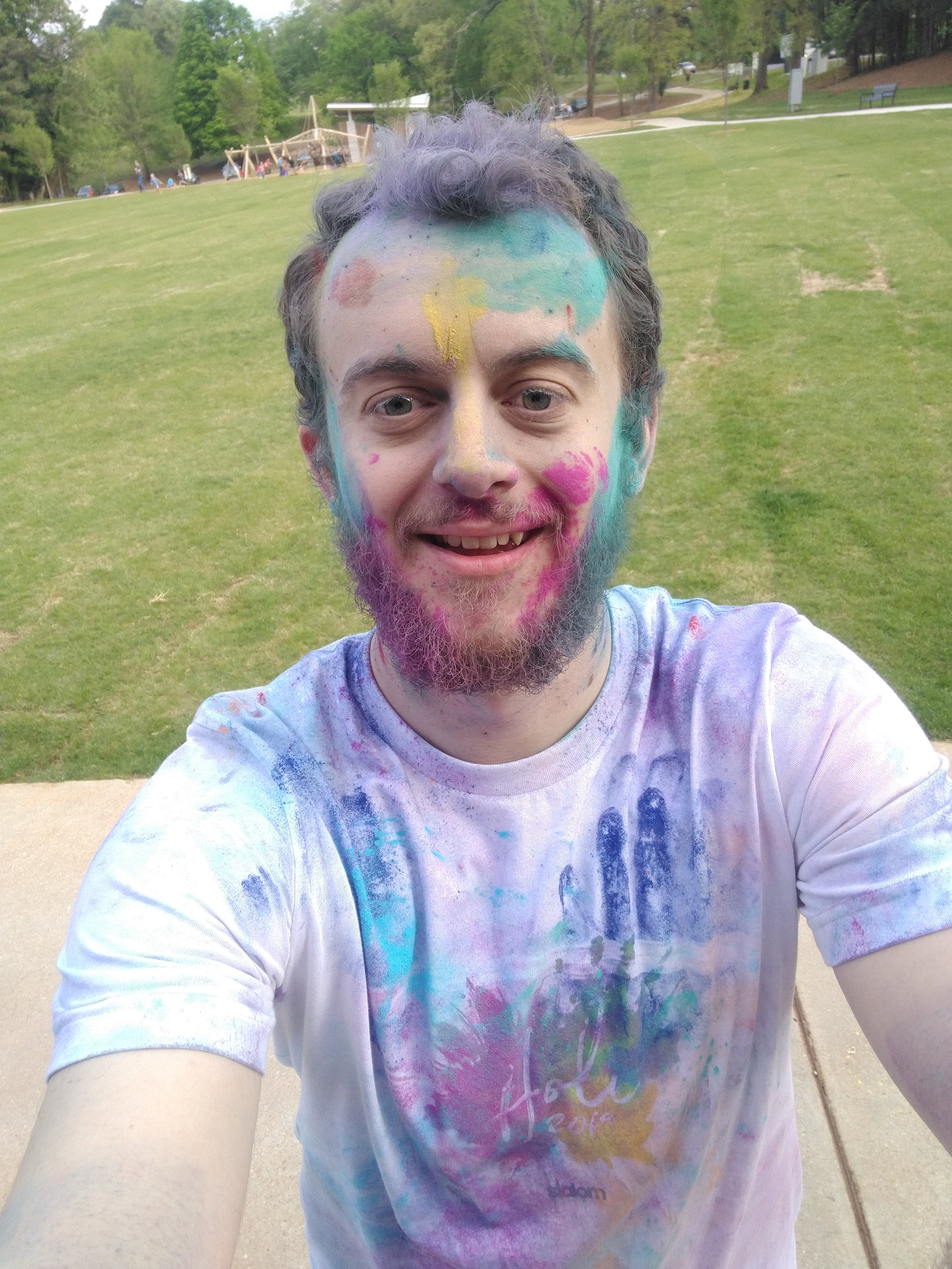
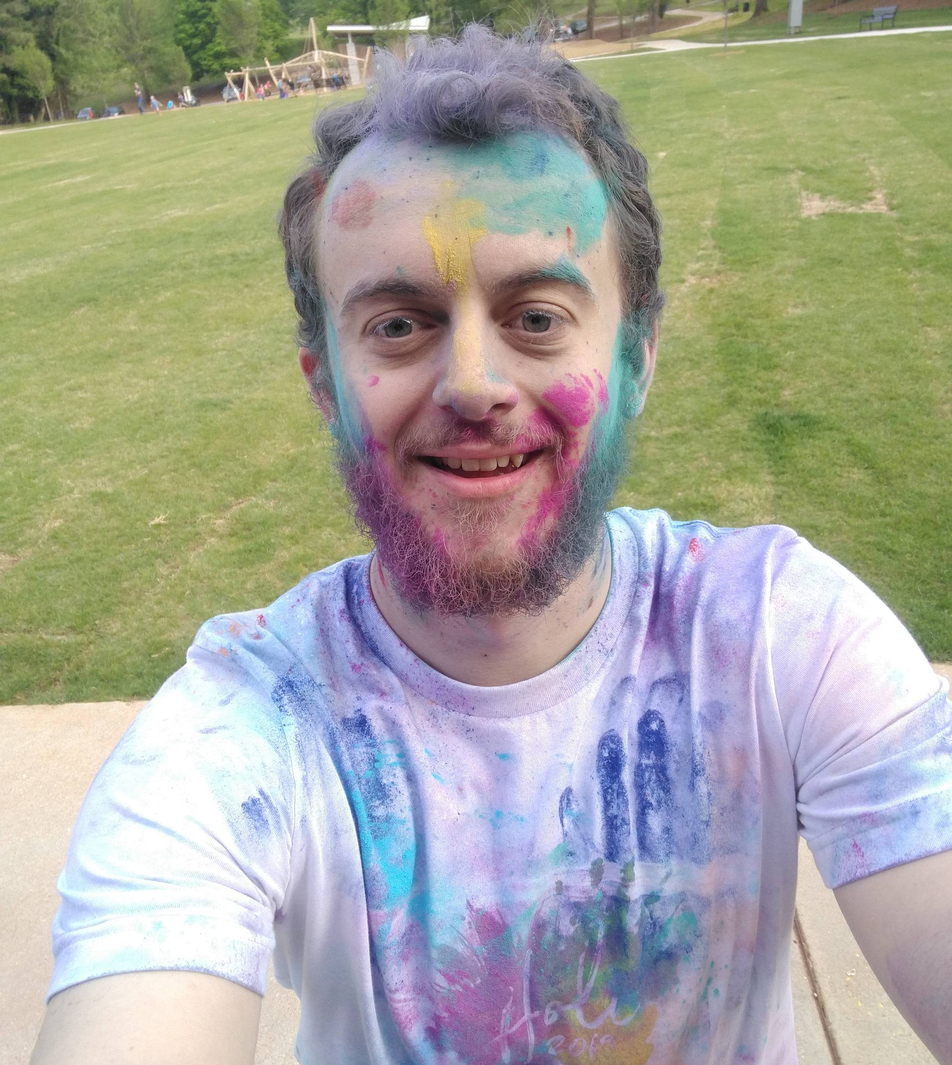
Optimize all images for web

diff --git a/src/data/ShowcaseData.js b/src/data/ShowcaseData.js
@@ -1,15 +1,15 @@
-import saia1 from '../images/projects/Saia/saia.png';
-import saia2 from '../images/projects/Saia/landing-bottom.png';
-import saia3 from '../images/projects/Saia/login.png';
-import saia4 from '../images/projects/Saia/bill-of-lading.png';
-import mtgbuddy1 from '../images/projects/mtgbuddy/landing.png';
-import mtgbuddy2 from '../images/projects/mtgbuddy/mechanics.png';
-import discord1 from '../images/projects/discord/discord.jpg';
-import discord2 from '../images/projects/discord/usage.png';
-import discord3 from '../images/projects/discord/leaderboard.png';
-import discord4 from '../images/projects/discord/presents.png';
-import tilted1 from '../images/projects/tilted/tilted.png';
-import tilted2 from '../images/projects/tilted/firstLevel.png';
+import saia1 from '../images/projects/Saia/saia.jpeg';
+import saia2 from '../images/projects/Saia/landing-bottom.jpeg';
+import saia3 from '../images/projects/Saia/login.jpeg';
+import saia4 from '../images/projects/Saia/bill-of-lading.jpeg';
+import mtgbuddy1 from '../images/projects/mtgbuddy/landing.jpeg';
+import mtgbuddy2 from '../images/projects/mtgbuddy/mechanics.jpeg';
+import discord1 from '../images/projects/discord/discord.jpeg';
+import discord2 from '../images/projects/discord/usage.jpeg';
+import discord3 from '../images/projects/discord/leaderboard.jpeg';
+import discord4 from '../images/projects/discord/presents.jpeg';
+import tilted1 from '../images/projects/tilted/tilted.jpeg';
+import tilted2 from '../images/projects/tilted/firstLevel.jpeg';
 
 const saia = {
   images: [saia1, saia2, saia3, saia4],
